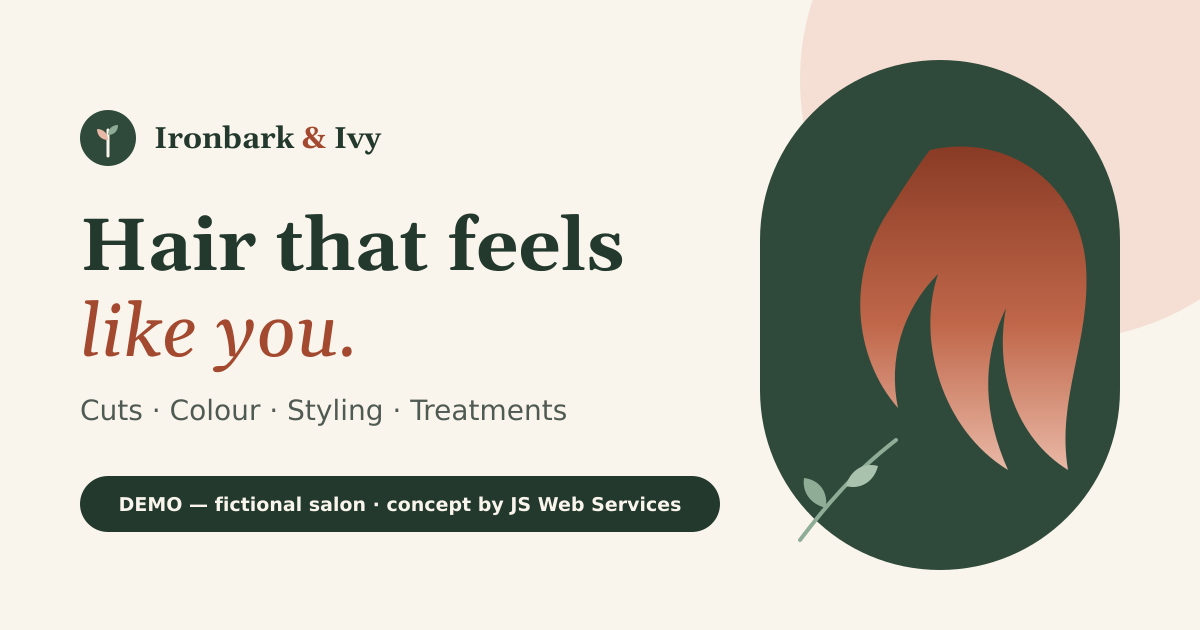
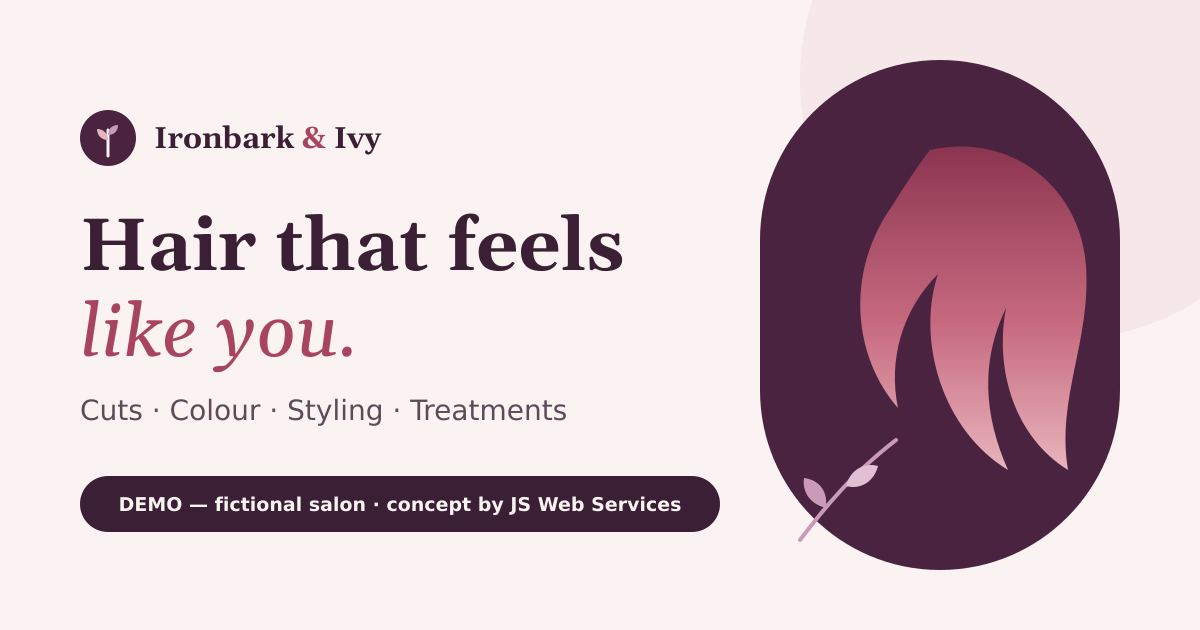
New palette: blush/rose + deep plum (WCAG AA checked)

diff --git a/src/styles/global.css b/src/styles/global.css
@@ -6,29 +6,44 @@
   --font-serif: 'Fraunces Variable', Georgia, 'Times New Roman', serif;
   --font-sans: system-ui, -apple-system, 'Segoe UI', Roboto, 'Helvetica Neue', Arial, sans-serif;
 
-  --color-cream-50: #fdfaf4;
-  --color-cream-100: #faf5ec;
-  --color-cream-200: #f3e9d8;
-  --color-cream-300: #e8d8bd;
+  /* Warm neutral backgrounds */
+  --color-porcelain-50: #fdf9f8;
+  --color-porcelain-100: #faf3f2;
+  --color-porcelain-200: #f3e7e6;
+  --color-porcelain-300: #e8d5d3;
 
-  --color-euc-50: #eef3ee;
-  --color-euc-100: #d7e3d8;
-  --color-euc-300: #8fac97;
-  --color-euc-500: #4c6b56;
-  --color-euc-700: #2f4a3a;
-  --color-euc-800: #24392d;
-  --color-euc-900: #1a2a21;
+  /* Deep plum — dark sections, headings, structure */
+  --color-plum-50: #f9f0f5;
+  --color-plum-100: #f0dde8;
+  --color-plum-200: #e1c0d4;
+  --color-plum-300: #c99bb8;
+  --color-plum-400: #a9719a;
+  --color-plum-500: #8c5580;
+  --color-plum-600: #723f68;
+  --color-plum-700: #5c3053;
+  --color-plum-800: #4a2340;
+  --color-plum-900: #3b1f35;
+  --color-plum-950: #2a1426;
 
-  --color-blush-100: #f8e6df;
-  --color-blush-200: #f1d0c4;
-  --color-blush-300: #e9b8a6;
+  /* Blush / rose — soft backgrounds, highlights, accents */
+  --color-blush-50: #fdf6f7;
+  --color-blush-100: #f9e9eb;
+  --color-blush-200: #f4dfe1;
+  --color-blush-300: #e8b4bc;
+  --color-blush-400: #db8e9d;
+  --color-blush-500: #c76a80;
+  --color-blush-600: #a8445f;
+  --color-blush-700: #8c3550;
+  --color-blush-800: #722b42;
+  --color-blush-900: #5a2235;
 
-  --color-terra-500: #c0674a;
-  --color-terra-600: #a3492f;
-  --color-terra-700: #8a3b25;
+  /* Muted gold — decorative accent only (not for text on light) */
+  --color-gold-300: #e6cf9f;
+  --color-gold-400: #d4b072;
+  --color-gold-500: #b48c4a;
 
-  --color-ink: #1f2a24;
-  --color-muted: #4f5a53;
+  --color-ink: #2b1a27;
+  --color-muted: #5e4a58;
 }
 
 @layer base {
@@ -38,19 +53,26 @@
     -webkit-text-size-adjust: 100%;
   }
   body {
-    @apply bg-cream-100 text-ink font-sans antialiased;
+    @apply bg-porcelain-100 text-ink font-sans antialiased;
     text-rendering: optimizeLegibility;
   }
   h1, h2, h3 {
-    @apply font-serif text-euc-800;
+    @apply font-serif text-plum-800;
     font-optical-sizing: auto;
     text-wrap: balance;
   }
   p { text-wrap: pretty; }
   :focus-visible {
-    outline: 3px solid var(--color-terra-600);
+    outline: 3px solid var(--color-blush-600);
     outline-offset: 3px;
     border-radius: 4px;
+  }
+  /* Rose-600 focus ring is too dark on plum; use blush-300 on dark surfaces. */
+  footer :focus-visible,
+  [role='note'] :focus-visible,
+  .bg-plum-800 :focus-visible,
+  .bg-plum-900 :focus-visible {
+    outline-color: var(--color-blush-300);
   }
   ::selection { background: var(--color-blush-200); color: var(--color-ink); }
   summary { cursor: pointer; list-style: none; }
@@ -62,15 +84,15 @@
   .btn {
     @apply inline-flex min-h-11 items-center justify-center gap-2 rounded-full px-6 py-3 text-base font-semibold transition-colors duration-200;
   }
-  .btn-primary { @apply bg-terra-600 text-white hover:bg-terra-700; }
-  .btn-dark { @apply bg-euc-800 text-cream-50 hover:bg-euc-900; }
-  .btn-ghost { @apply border-2 border-euc-700 text-euc-800 hover:bg-euc-700 hover:text-cream-50; }
-  .eyebrow { @apply text-sm font-semibold uppercase tracking-[0.14em] text-terra-600; }
+  .btn-primary { @apply bg-blush-600 text-white hover:bg-blush-700; }
+  .btn-dark { @apply bg-plum-800 text-porcelain-50 hover:bg-plum-900; }
+  .btn-ghost { @apply border-2 border-plum-700 text-plum-800 hover:bg-plum-700 hover:text-porcelain-50; }
+  .eyebrow { @apply text-sm font-semibold uppercase tracking-[0.14em] text-blush-600; }
   .section { @apply py-20 sm:py-28; }
   .section-title { @apply mt-3 text-4xl leading-tight font-semibold sm:text-5xl; }
-  .field-label { @apply mb-1.5 block text-sm font-semibold text-euc-800; }
+  .field-label { @apply mb-1.5 block text-sm font-semibold text-plum-800; }
   .field {
-    @apply block min-h-12 w-full rounded-xl border border-euc-300 bg-white px-4 py-3 text-base text-ink placeholder:text-muted/80;
+    @apply block min-h-12 w-full rounded-xl border border-plum-400 bg-white px-4 py-3 text-base text-ink placeholder:text-muted/80;
   }
   .field:focus-visible { outline-offset: 1px; }
 }

diff --git a/src/site.config.ts b/src/site.config.ts
@@ -11,7 +11,7 @@ export const site = {
   location: 'Somewhere in South-East Queensland (demo)',
   areaServed: 'Brisbane, QLD',
   locale: 'en-AU',
-  themeColor: '#24392d',
+  themeColor: '#3b1f35',
   parking: 'Plenty of spots out front and in the side street.',
   agency: {
     name: 'JS Web Services',
@@ -79,24 +79,24 @@ export const site = {
       initials: 'ME',
       role: 'Owner & senior stylist',
       bio: 'Fifteen years behind the chair and a soft spot for lived-in colour. Mara built the studio around unhurried appointments.',
-      color: '#2f4a3a',
-      accent: '#e9b8a6',
+      color: '#4a2340',
+      accent: '#e8b4bc',
     },
     {
       name: 'Theo Nguyen',
       initials: 'TN',
       role: 'Colour specialist',
       bio: 'Balayage, glossing and colour corrections. Theo loves turning a vague Pinterest board into a shade that suits you.',
-      color: '#a3492f',
-      accent: '#f3e3cf',
+      color: '#8c3550',
+      accent: '#faf3f2',
     },
     {
       name: 'Priya Kaur',
       initials: 'PK',
       role: 'Stylist & bridal',
       bio: 'Textured cuts, curls and up-styles that last through the dancing. Priya runs our bridal trials and on-the-day styling.',
-      color: '#5d6b3a',
-      accent: '#f6d9cf',
+      color: '#723f68',
+      accent: '#e6cf9f',
     },
   ],
   reviews: [
@@ -122,7 +122,7 @@ export const site = {
     { src: '/gallery/sleek-bob.svg', alt: 'Line illustration of a sleek chin-length bob silhouette', caption: 'Sleek chin-length bob' },
     { src: '/gallery/scissors.svg', alt: 'Illustration of open styling scissors and a comb', caption: 'Precision cutting' },
     { src: '/gallery/curls.svg', alt: 'Abstract spiral shapes representing defined curls', caption: 'Defined, frizz-free curls' },
-    { src: '/gallery/up-style.svg', alt: 'Illustration of a low bridal bun with a sprig of greenery', caption: 'Bridal up-style' },
+    { src: '/gallery/up-style.svg', alt: 'Illustration of a low bridal bun with a sprig of leaves', caption: 'Bridal up-style' },
     { src: '/gallery/copper-gradient.svg', alt: 'Abstract gradient from rich copper to warm rose gold', caption: 'Copper to rose-gold gloss' },
     { src: '/gallery/salon-chair.svg', alt: 'Illustration of a salon chair beside a round mirror and potted plant', caption: 'Our (imaginary) studio' },
   ],
